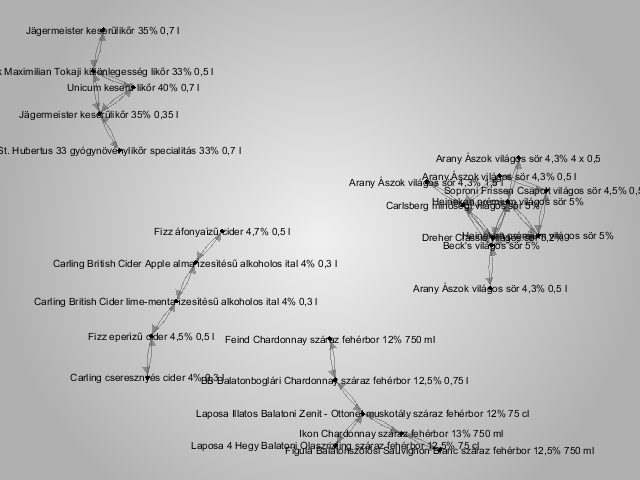
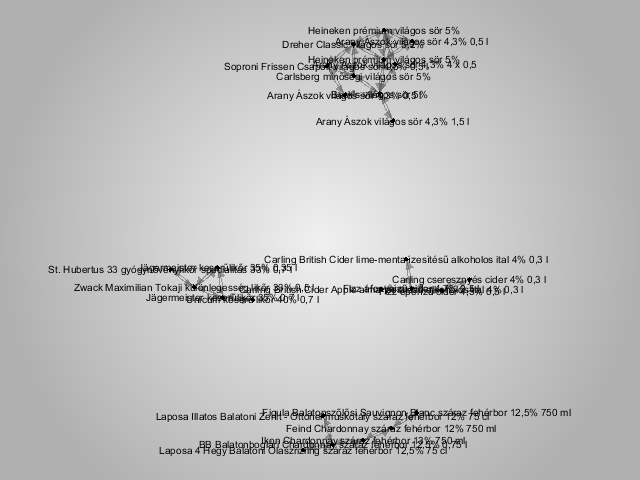
Shops, Map markers, coordinates

Changed region(s): [[0.0625, 0.3125, 1.0, 0.9688], [0.0, 0.0312, 0.75, 0.3438], [0.0312, 0.0312, 0.2812, 0.0938]]

diff --git a/src/main/webapp/smartcart/scripts/smartCartApp.js b/src/main/webapp/smartcart/scripts/smartCartApp.js
@@ -1,40 +1,24 @@
 var app = angular.module('smartCartApp', ['ngResource', 'ui.select', 'ngSanitize', 'uiGmapgoogle-maps']);
 
-app.controller('MainCtrl', function($scope, $resource) {
+app.config(function(uiGmapGoogleMapApiProvider) {
+    uiGmapGoogleMapApiProvider.configure({
+        key: 'AIzaSyDUd-FQRUaYwsBWSSXEH9H9qSx5g-yPM88',
+        v: '3.17',
+        libraries: 'weather,geometry,visualization'
+    });
+})
+
+app.controller('MainCtrl', function($scope, $resource, uiGmapGoogleMapApi) {
 
 	 $scope.shopData = {
-			 shops : [
-			          {
-			        	  brand : "TESCO",
-			        	  name : "TESCO Veszprém Hipermarket",
-			        	  address: "8200 Külső-Kádártai út",
-			        	  lat: 47.103660,
-			        	  lng: 17.934070
-			          },
-			          {
-			        	  brand : "TESCO",
-			        	  name : "TESCO Veszprém Szupermarket",
-			        	  address: "8200 Mártírok útja 13.",
-			        	  lat: 47.0843779,
-			        	  lng: 17.9134511
-			          },
-			          {
-			        	  brand : "INTERSPAR",
-			        	  name : "Interspar",
-			        	  address: "8200 Dornyai Béla u. 4",
-			        	  lat: 47.084550,
-			        	  lng: 17.925922
-			          }
-			          
-			 ]
+			 shops : []
 	 }
 	 
 	 var updateMarkers = function () {
 		 var markers = [];
-		 var i = 0;
 		 $scope.shopData.shops.forEach(function(s) {
 			 var r = { 
-					 id: i, 
+					 id: s.id, 
 					 latitude : s.lat, 
 					 longitude : s.lng,
 					 title : s.name,
@@ -45,13 +29,9 @@ app.controller('MainCtrl', function($scope, $resource) {
 			 	 r.show = !r.show;
 			 };
 			 markers.push(r);
-			 i++;
 		 });
 		 return markers;
 	 }
-	 $scope.markers = updateMarkers();
-	 
-	 $scope.selectedShop = $scope.shopData.shops[0];
 	 
 	 $scope.map = { 
 			 center: { latitude: 47.093837, longitude: 17.907022 }, 
@@ -59,20 +39,51 @@ app.controller('MainCtrl', function($scope, $resource) {
 			 options : {scrollwheel: false}};
 	 $scope.shopMarkers = [];
 	 
+	 
 	 $scope.selectMarker = function () {
-		 
-		 $scope.markers.forEach(function(mark) {
-			 if ($scope.selectedShop.lat == mark.latitude && $scope.selectedShop.lng == mark.longitude) {
-				 mark.show = true;
-			 } else {
-				 mark.show = false;
+		 if ($scope.selectedShop.id) {
+			 $scope.markers.forEach(function(mark) {
+				 
+				 	console.log($scope.markers);
+				 
+					 if ($scope.selectedShop.id == mark.id) {
+						 mark.show = true;
+					 } else {
+						 mark.show = false;
+					 }
+			 });
+			 $scope.shopMarkers = [
+			   {"latitude":$scope.selectedShop.lat,"longitude":$scope.selectedShop.lng,"id":0}  
+			 ];
+		 }
+	 }
+	 
+	 var ShopResource = $resource('/api/shops/:shopId',
+	 			 {shopId:'@shopId'}, {});
+
+	 uiGmapGoogleMapApi.then(function(maps) {
+		 var shopsPromise = ShopResource.query(function() {
+			 if (shopsPromise) {
+				 $scope.shopData.shops = [];
+				 console.log("Shops loaded:" + shopsPromise.length)
+				 
+				 shopsPromise.forEach(function(s) {
+					 $scope.shopData.shops.push({
+						 id : s.id,
+						 brand : s.brand.brand,
+						 name : s.name,
+						 address : s.address,
+						 lat : s.lat,
+						 lng : s.lng
+					 });
+				 });
+				 
+				 $scope.markers = updateMarkers();
+				 $scope.selectedShop = $scope.shopData.shops[0];
+				 
 			 }
 		 });
-		 
-		 $scope.shopMarkers = [
-		   {"latitude":$scope.selectedShop.lat,"longitude":$scope.selectedShop.lng,"id":0}  
-		 ];
-		 
-	 }
+	 }); 
+	 
 	
 });

diff --git a/src/main/webapp/smartcart/index.html b/src/main/webapp/smartcart/index.html
@@ -111,9 +111,17 @@
                 <p class="section-subtitle">Sprolj pénzt is időt! Tervezd előre a költségeket, válaszd a számodra legkedvezőbb üzleteket és termékeket!</p>
             </header>
 
-            <div class="row">
-            	...here comes the magic
-            </div>
+            <div class="row">...here comes the magic</div>
+            <div class="row">...here comes the magic</div>
+            <div class="row">...here comes the magic</div>
+            <div class="row">...here comes the magic</div>
+            <div class="row">...here comes the magic</div>
+            <div class="row">...here comes the magic</div>
+            <div class="row">...here comes the magic</div>
+            <div class="row">...here comes the magic</div>
+            <div class="row">...here comes the magic</div>
+            <div class="row">...here comes the magic</div>
+            
             
         </div>
     </section>

diff --git a/src/main/webapp/scripts/app/entities/shop/shop-detail.html b/src/main/webapp/scripts/app/entities/shop/shop-detail.html
@@ -26,6 +26,22 @@
                         <input type="text" class="input-sm form-control" value="{{shop.address}}" readonly>
                     </td>
                 </tr>
+                <tr>
+                    <td>
+                        <span translate="smartcartApp.shop.lat">Address</span>
+                    </td>
+                    <td>
+                        <input type="text" class="input-sm form-control" value="{{shop.lat}}" readonly>
+                    </td>
+                </tr>
+				<tr>
+                    <td>
+                        <span translate="smartcartApp.shop.lng">Address</span>
+                    </td>
+                    <td>
+                        <input type="text" class="input-sm form-control" value="{{shop.lng}}" readonly>
+                    </td>
+                </tr>
             </tbody>
         </table>
     </div>

diff --git a/src/main/webapp/scripts/app/entities/shop/shops.html b/src/main/webapp/scripts/app/entities/shop/shops.html
@@ -57,6 +57,19 @@
                                    ng-model="shop.address">
 
                         </div>
+						
+						<div class="form-group">
+                            <label translate="smartcartApp.shop.lon">Lat</label>
+                            <input type="text" class="form-control" name="lat"
+                                   ng-model="shop.lat">
+
+                        </div>
+						<div class="form-group">
+                            <label translate="smartcartApp.shop.lng">Lng</label>
+                            <input type="text" class="form-control" name="lng"
+                                   ng-model="shop.lng">
+
+                        </div>
 
                     </div>
                     <div class="modal-footer">

diff --git a/src/main/webapp/smartcart/css/main.css b/src/main/webapp/smartcart/css/main.css
@@ -151,6 +151,8 @@ h1, h2, h3, h4, h5, h6 {
     color: #fff
 }
 
+
+
 #page-about {
     padding: 75px 0;
     background: #fff

diff --git a/src/main/java/com/smartcart/service/util/DatabaseInitializerHelper.java b/src/main/java/com/smartcart/service/util/DatabaseInitializerHelper.java
@@ -73,12 +73,23 @@ public class DatabaseInitializerHelper {
 		Brand tescoBrand = brands.stream().filter(b -> b.getBrand() == BrandsEnum.TESCO).findFirst().get();
 		Brand sparBrand = brands.stream().filter(b -> b.getBrand() == BrandsEnum.SPAR).findFirst().get();
 		Brand aldiBrand = brands.stream().filter(b -> b.getBrand() == BrandsEnum.ALDI).findFirst().get();
+		Brand lidlBrand = brands.stream().filter(b -> b.getBrand() == BrandsEnum.LIDL).findFirst().get();
+		Brand pennyBrand = brands.stream().filter(b -> b.getBrand() == BrandsEnum.PENNY).findFirst().get();
 		
 		List<Shop> shops = new ArrayList<Shop>();
-		shops.add(new Shop("TESCO Veszprém Hipermarket", tescoBrand));
-		shops.add(new Shop("TESCO Veszprém Szupermarket", tescoBrand));
-		shops.add(new Shop("Interspar", sparBrand));
-		shops.add(new Shop("Aldi", aldiBrand));
+		shops.add(new Shop("TESCO Veszprém Hipermarket", tescoBrand, "8200 Külső-Kádártai út", 47.103660, 17.934070));
+		shops.add(new Shop("TESCO Veszprém Szupermarket", tescoBrand, "8200 Mártírok útja 13.", 47.0843779 , 17.9134511));
+		shops.add(new Shop("Interspar", sparBrand, "8200 Dornyai Béla u. 4", 47.084550, 17.925922));
+		shops.add(new Shop("Spar", sparBrand, "", 47.0850029, 17.930064));
+		shops.add(new Shop("Spar", sparBrand, "", 47.093872, 17.910948));
+		shops.add(new Shop("Spar", sparBrand, "", 47.107369, 17.910656));
+		shops.add(new Shop("Aldi", aldiBrand, "", 47.082114, 17.925304));
+		shops.add(new Shop("Aldi", aldiBrand, "", 47.109248, 17.927399));
+		shops.add(new Shop("Lidl", lidlBrand, "", 47.111018, 17.926452));
+		shops.add(new Shop("Lidl", lidlBrand, "", 47.087072, 17.922268));
+		shops.add(new Shop("Penny", pennyBrand, "", 47.096322, 17.926697));
+		shops.add(new Shop("Penny", pennyBrand, "", 47.112910, 17.923899));
+		shops.add(new Shop("Penny", pennyBrand, "", 47.101895, 17.898318));
 		return shops;
 	}
 

diff --git a/src/main/java/com/smartcart/domain/Shop.java b/src/main/java/com/smartcart/domain/Shop.java
@@ -42,6 +42,13 @@ public class Shop implements Serializable {
 
     @Column(name = "address")
     private String address;
+    
+    @Column(name = "lat")
+    private Double lat;
+    
+    @Column(name = "lng")
+    private Double lng;
+    
 
     @OneToMany(mappedBy = "shop")
     @JsonIgnore
@@ -54,9 +61,12 @@ public class Shop implements Serializable {
 
     public Shop(){}
     
-    public Shop(String name, Brand brand){
+    public Shop(String name, Brand brand, String address, double lat, double lng){
     	this.name = name;
     	this.brand = brand;
+    	this.address = address;
+    	this.lat = lat;
+    	this.lng = lng;
     }
     
     
@@ -98,6 +108,22 @@ public class Shop implements Serializable {
 
 	public void setBrand(Brand brand) {
 		this.brand = brand;
+	}
+	
+	public Double getLat() {
+		return lat;
+	}
+
+	public void setLat(Double lat) {
+		this.lat = lat;
+	}
+
+	public Double getLng() {
+		return lng;
+	}
+
+	public void setLng(Double lng) {
+		this.lng = lng;
 	}
 
 	@Override
